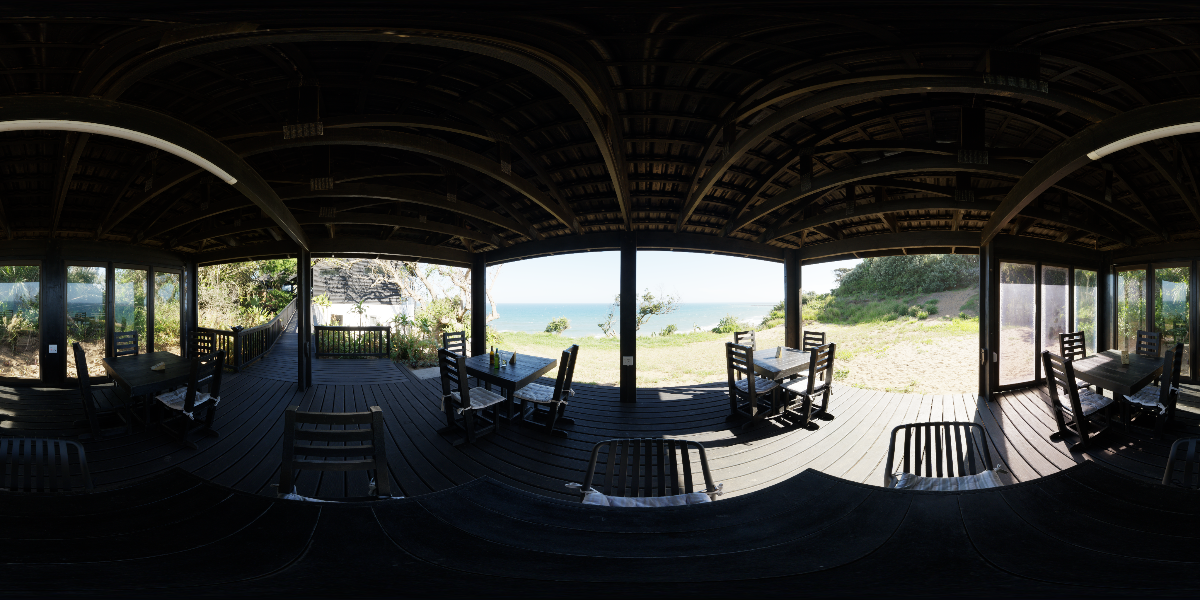
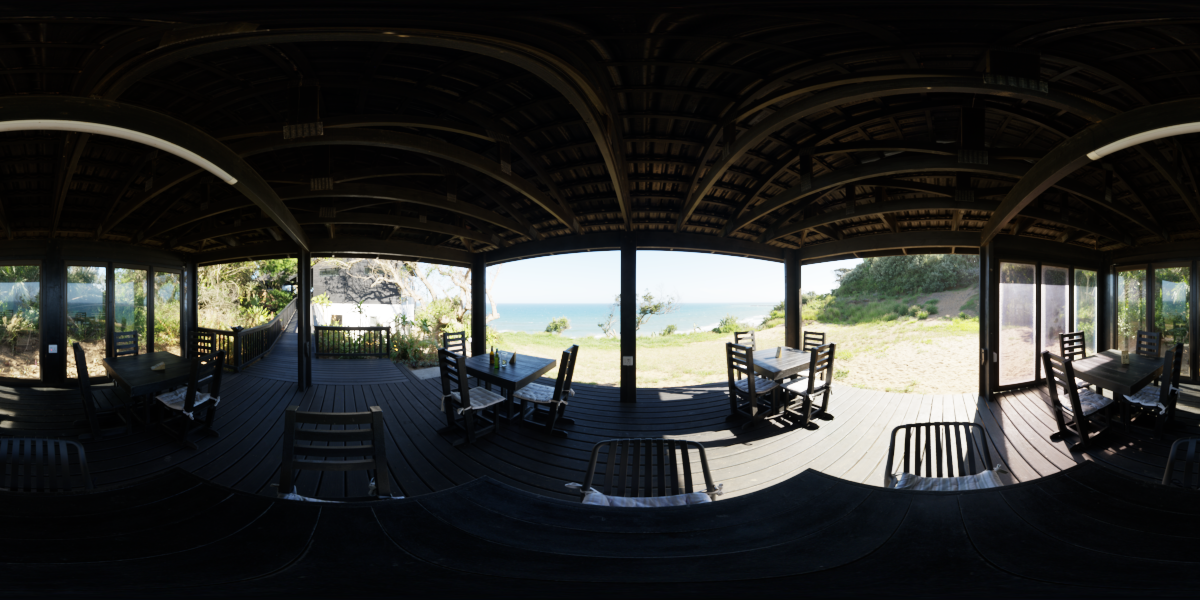
update.

diff --git a/tools/render_examples.py b/tools/render_examples.py
@@ -1,25 +1,42 @@
 """Regenerate README comparisons: .venv/Scripts/python.exe tools/render_examples.py."""
 from pathlib import Path
 import sys
+import numpy as np
+from PIL import Image
 
 sys.path.insert(0, str(Path(__file__).resolve().parents[1]))
 import slangpy as spy
-from tone_mapper import ROOT, ToneMapper, load_exr, save_png
+from tone_mapper import ROOT, ToneMapper, load_exr, create_hdr_texture
+from tools.profiling.android.quality_sweep import Candidate, codes
+from tools.profiling.android.variants import DEFAULT_VARIANT
 
 
 def main():
     device = spy.Device(enable_hot_reload=False)
     mapper = ToneMapper(device)
+    candidate = Candidate(device, mapper, DEFAULT_VARIANT)
+    session = device.create_slang_session(compiler_options={'include_paths': [ROOT/'shaders']})
+    baseline = device.create_compute_kernel(session.load_program('guided.slang', ['tonemap_baseline']))
+    w, h = 1200, 600
     for scene, ev in [('sundowner_deck', -2.0), ('veranda', -1.0)]:
-        source = load_exr(device, ROOT / 'Assets' / f'{scene}_4k.exr')
-        output = mapper.create_output(1200, 600)
-        for label, bracket in [('before', 0.0), ('after', 3.0)]:
-            # Zero brackets are identity: global exposure + ACES only.
-            encoder = device.create_command_encoder()
-            mapper.execute(encoder, source, output, ev,
-                           highlight_ev=bracket, shadow_ev=bracket, sigma=0.2)
-            device.submit_command_buffer(encoder.finish())
-            save_png(output, ROOT / 'docs' / 'images' / f'{scene}-{label}.png')
+        rgb = load_exr(device, ROOT / 'Assets' / f'{scene}_4k.exr').to_numpy()[...,:3]
+        rgb = np.stack([np.asarray(Image.fromarray(rgb[...,c]).resize(
+            (w,h), Image.Resampling.BILINEAR)) for c in range(3)], axis=-1)
+        source = create_hdr_texture(device, np.concatenate([rgb, np.ones((h,w,1), np.float32)], axis=-1))
+        output = mapper.create_texture(w,h,spy.Format.rgba16_float)
+        baseline.dispatch(thread_count=[w,h,1], vars=dict(fullSource=source,
+            colorOutput=output, globalEV=ev))
+        before = output.to_numpy()
+        encoder = device.create_command_encoder()
+        mapper.prepare_weights(encoder, source, ev, 3.0, 3.0, .2)
+        device.submit_command_buffer(encoder.finish())
+        after, residual = candidate.render(source, ev, bracket=3.0, sigma=.2)
+        if not all(np.isfinite(x).all() for x in (before, after, residual)):
+            raise ValueError(f'Non-finite example: {scene}')
+        for label, pixels in [('before', before), ('after', after)]:
+            path = ROOT/'docs/images'/f'{scene}-{label}.png'
+            Image.fromarray(codes(pixels)).save(path)
+            print(f'Saved {path} ({DEFAULT_VARIANT if label == "after" else "tonemap only"})')
     device.wait()
 
 

diff --git a/README.md b/README.md
@@ -7,7 +7,7 @@
 | ![Deck before local exposure](docs/images/sundowner_deck-before.png) | ![Deck after local exposure](docs/images/sundowner_deck-after.png) |
 | ![Veranda before local exposure](docs/images/veranda-before.png) | ![Veranda after local exposure](docs/images/veranda-after.png) |
 
-Each pair uses the same HDR input, global exposure, and tone mapper. Examples use ±3 EV brackets to emphasize the effect; the default is ±1.2 EV.
+Each pair uses the same 1200×600 HDR input, global exposure, and tone mapper. The after images use the current optimized mobile algorithm. Examples use ±3 EV brackets to emphasize the effect; the default is ±1.2 EV.
 
 ## What we built
 
